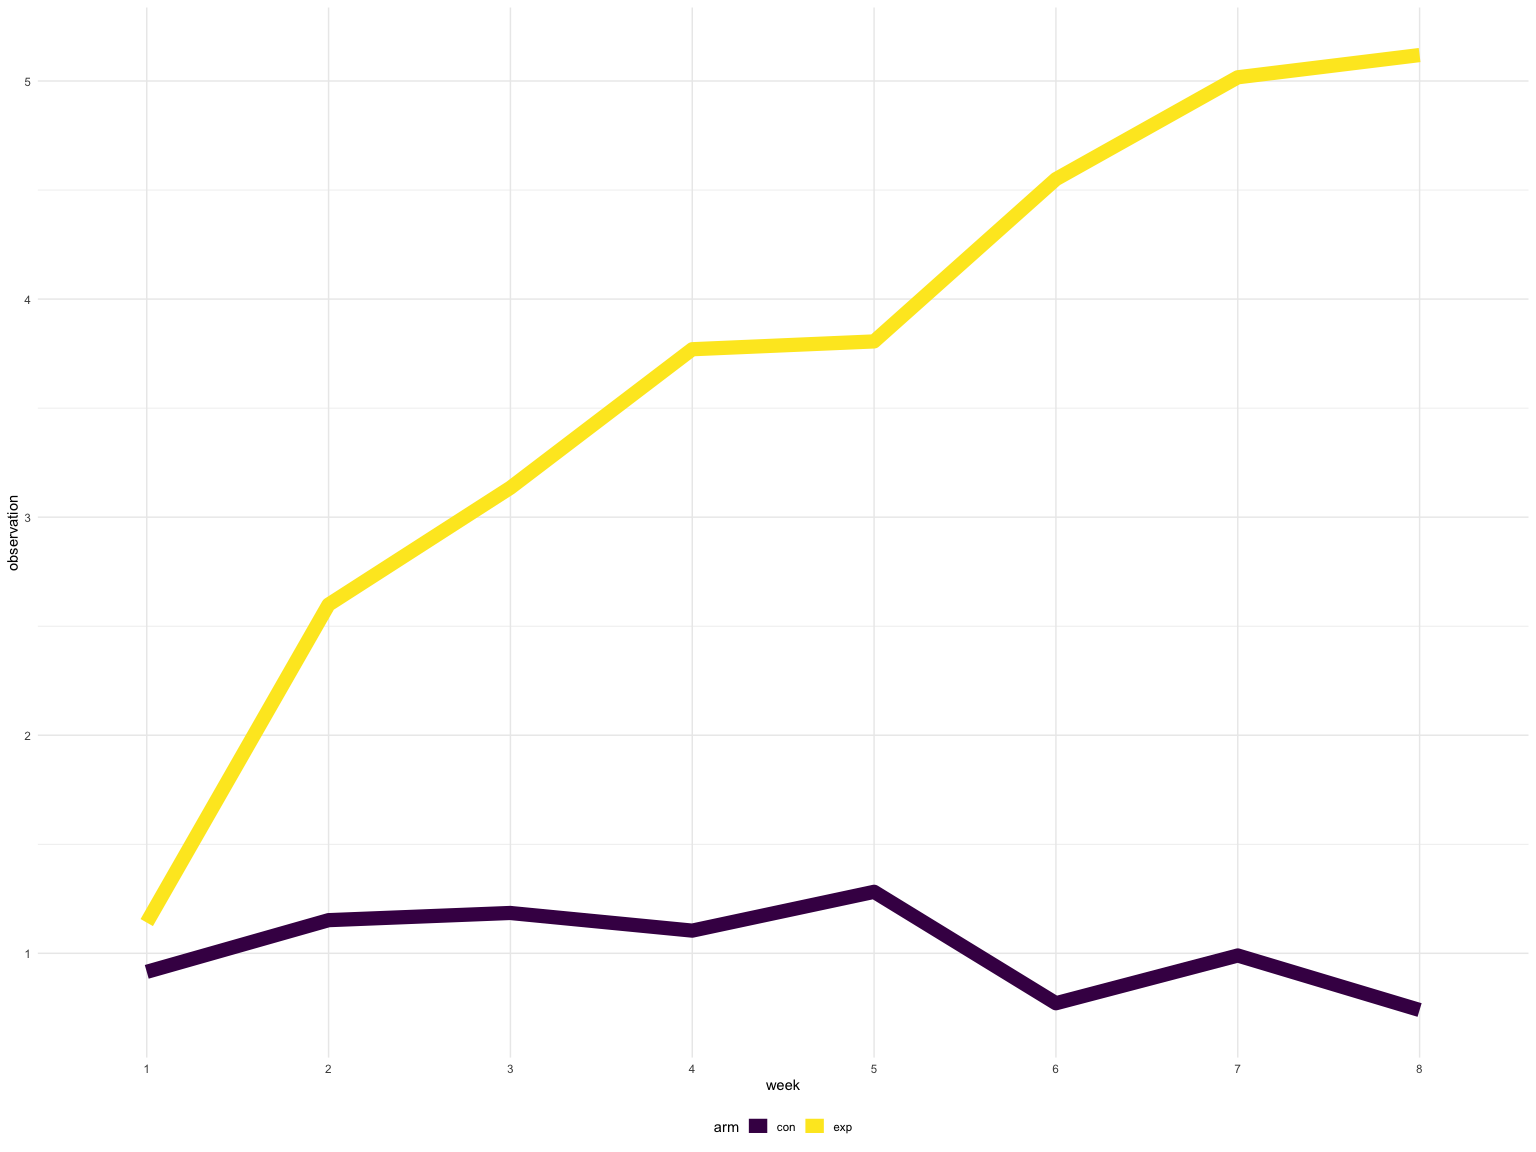
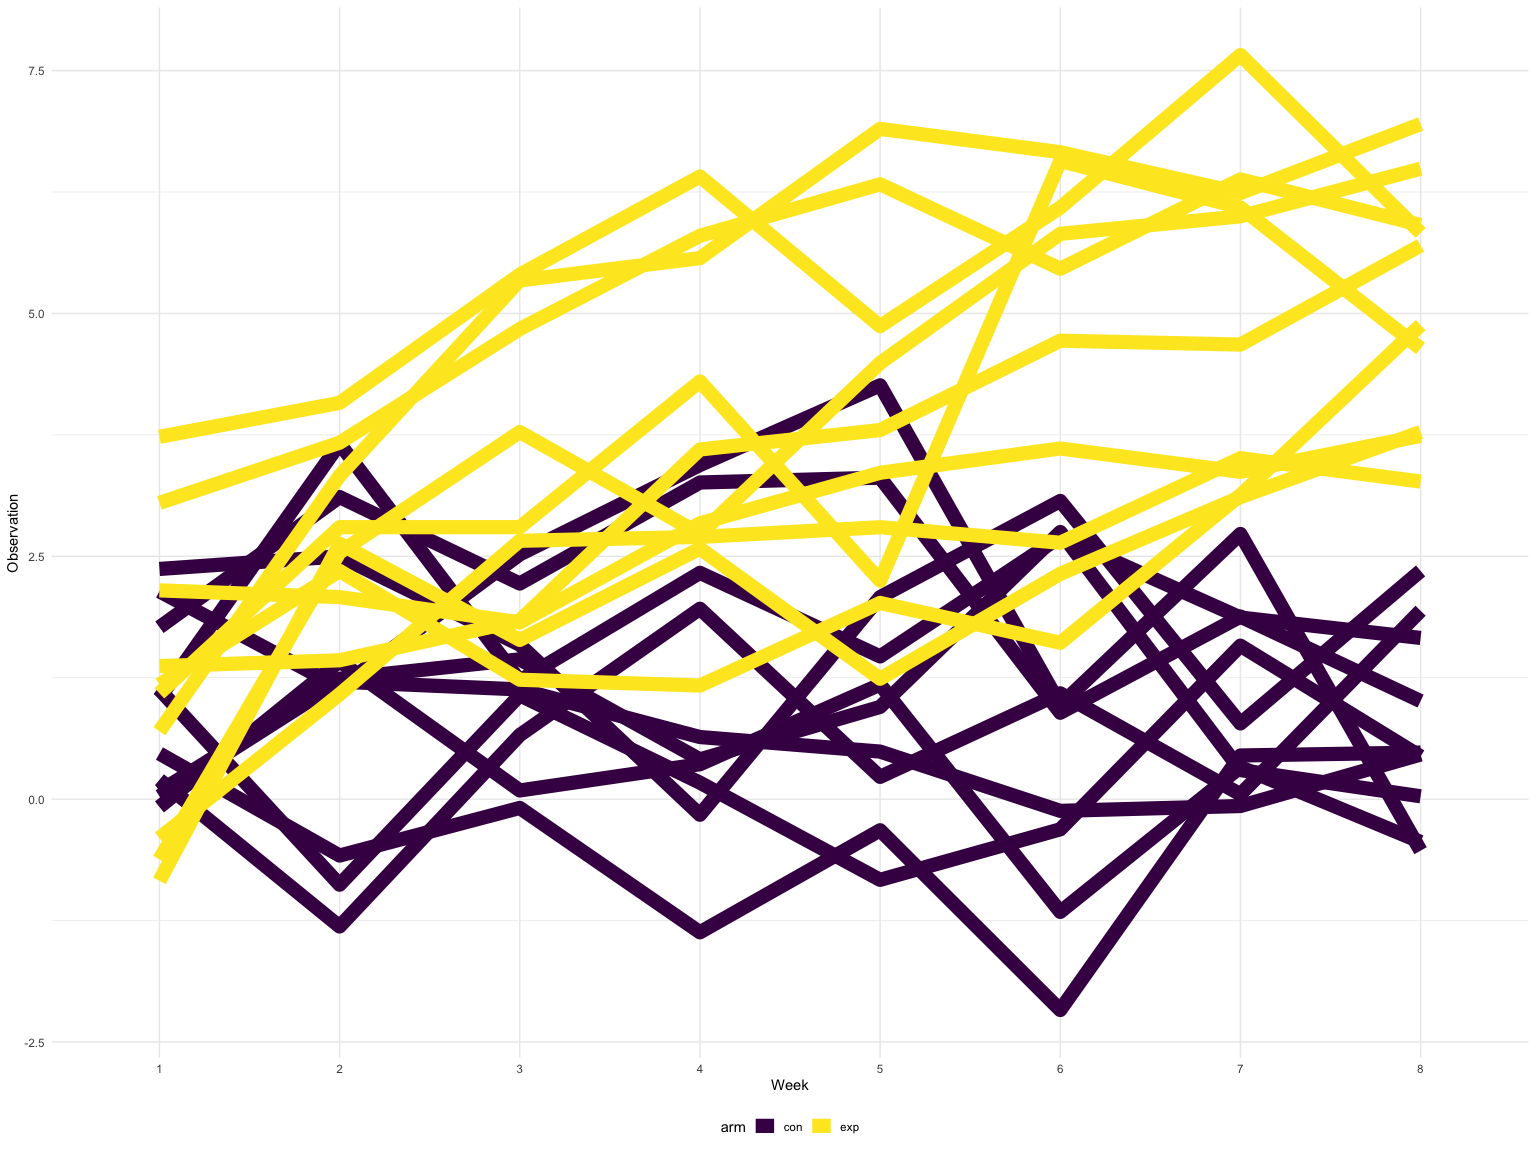
final version

diff --git a/p8105_hw5_ng2696.md b/p8105_hw5_ng2696.md
@@ -1,4 +1,4 @@
-hw5
+Homework 5
 ================
 Nihan Gencerliler
 11/9/2019
@@ -6,12 +6,11 @@ Nihan Gencerliler
 ## Problem 1
 
 ``` r
-set.seed(10)
-
 iris_with_missing = iris %>% 
   map_df(~replace(.x, sample(1:150, 20), NA)) %>%
   mutate(Species = as.character(Species))
 
+#create function to replace missing values 
 replace_missing = function(original_values) {
   if (is.numeric(original_values))
    {new_values=replace_na(original_values, mean(original_values,na.rm = TRUE))}
@@ -19,44 +18,13 @@ replace_missing = function(original_values) {
   {new_values=replace_na(original_values, "virginica")}
   new_values
 }
-
+#map function to the iris dataframe, outputting a new df
 iris_without_missing = map_dfr(iris_with_missing, replace_missing)
-
-head(iris_without_missing)
 ```
 
-    ## # A tibble: 6 x 5
-    ##   Sepal.Length Sepal.Width Petal.Length Petal.Width Species
-    ##          <dbl>       <dbl>        <dbl>       <dbl> <chr>  
-    ## 1          5.1         3.5          1.4        0.2  setosa 
-    ## 2          4.9         3            1.4        0.2  setosa 
-    ## 3          4.7         3.2          1.3        0.2  setosa 
-    ## 4          4.6         3.1          1.5        1.19 setosa 
-    ## 5          5           3.6          1.4        0.2  setosa 
-    ## 6          5.4         3.9          1.7        0.4  setosa
-
-For numeric variables, you should fill in missing values with the mean
-of non-missing values For character variables, you should fill in
-missing values with “virginica”
+The number of missing values in the final df is 0.
 
 ## Problem 2
-
-This zip file contains data from a longitudinal study that included a
-control arm and an experimental arm. Data for each participant is
-included in a separate file, and file names include the subject ID and
-arm.
-
-Create a tidy dataframe containing data from all participants, including
-the subject ID, arm, and observations over time:
-
-subject ID arm observations time Start with a dataframe containing all
-file names; the list.files function will help Iterate over file names
-and read in data for each subject using purrr::map and saving the result
-as a new variable in the dataframe Tidy the result; manipulate file
-names to include control arm and subject ID, make sure weekly
-observations are “tidy”, and do any other tidying that’s necessary Make
-a spaghetti plot showing observations on each subject over time, and
-comment on differences between group
 
 ``` r
 #create vector of filenames
@@ -64,7 +32,7 @@ files_vec=list.files(path = "./data", full.names = TRUE)
 #create dataframe of filenames, subjectID, arm
 files_wide=
   
-  data_frame(filename=files_vec, subject_ID=str_sub(files_vec,-6,-5), arm=str_sub(files_vec,-10,-8)) %>%
+  data_frame(filename=files_vec, subject_ID=str_sub(files_vec,-10,-5), arm=str_sub(files_vec,-10,-8)) %>%
   #create new variable that reads each file into a dataframe and unnest to get each subject's weekly 
   #observations in wide format
   mutate(file_contents = map(filename,read.csv)
@@ -72,18 +40,74 @@ files_wide=
   unnest(file_contents)
 
 #tidy the data to long format in order to create the plot
-
-files_long=
   files_wide %>%
    pivot_longer(week_1:week_8,
                names_to="week",
                names_prefix="week_",
                values_to="observation") %>%
-    group_by(week, arm) %>%
-    summarize(observation=mean(observation))
-
-files_long %>%
-ggplot(aes(x=week,y=observation,group=arm,color=arm)) + geom_line(size=5)
+ggplot(aes(x=week,y=observation,group=subject_ID, color=arm)) + geom_line(size=5) +labs(x="Week",y="Observation")
 ```
 
 <img src="p8105_hw5_ng2696_files/figure-gfm/unnamed-chunk-2-1.png" width="90%" />
+
+There appears to be an increase in the value of observation for the
+experimental group over time while the control group remains relatively
+constant.
+
+## Problem 3
+
+``` r
+#create function that outputs the p-value and beta1 estimate in a 2x1 dataframe
+sim_power = function(n=30, beta0 = 2, beta1) {
+  
+  sim_data = tibble(
+    x = rnorm(n, mean = 1, sd = 1),
+    y = beta0 + beta1 * x + rnorm(n, 0, 50)
+  )
+  
+  ls_fit = lm(y ~ x, data = sim_data)
+  
+  broom::tidy(ls_fit) %>% 
+    select(estimate,p.value) %>%
+    slice(2:n())
+}
+
+#run the above function 10000 times, map this onto 6 different beta values
+sim_power_results =
+  tibble(beta1list=c(1,2,3,4,5,6)) %>%
+  mutate(
+    output_lists = map(.x = beta1list, ~rerun(10000, sim_power(beta1 = .x))),
+    estimate_dfs = map(output_lists, bind_rows)) %>% 
+  select(-output_lists) %>% 
+  unnest(estimate_dfs) 
+```
+
+Plot showing proportion of times null was rejected for each beta:
+
+``` r
+sim_power_results %>%
+  group_by(beta1list) %>%
+  summarize (power= sum(p.value<0.05)/n()) %>%
+  ggplot(aes(x=beta1list,y=power))+geom_line()+labs(x="True Beta1",y="Power")
+```
+
+<img src="p8105_hw5_ng2696_files/figure-gfm/unnamed-chunk-4-1.png" width="90%" />
+
+This plot shows that as effect size increases, so does power.
+
+Plot comparing true beta1 to the average beta1 estimate:
+
+``` r
+sim_power_results %>%
+  filter(p.value<0.05) %>%
+  group_by(beta1list) %>%
+  summarize(beta1estimate=mean(estimate)) %>%
+  ggplot(aes(x=beta1list,y=beta1estimate))+geom_line()+labs(x="True Beta1",y="Beta1 Estimate")
+```
+
+<img src="p8105_hw5_ng2696_files/figure-gfm/unnamed-chunk-5-1.png" width="90%" />
+
+When restricted to estimates where the null was rejected, the sample
+average for the beta estimate is much higher than the actual beta value.
+This is because our small sample size makes it so that the effect size
+has to be fairly large in order for us to reject the null.
